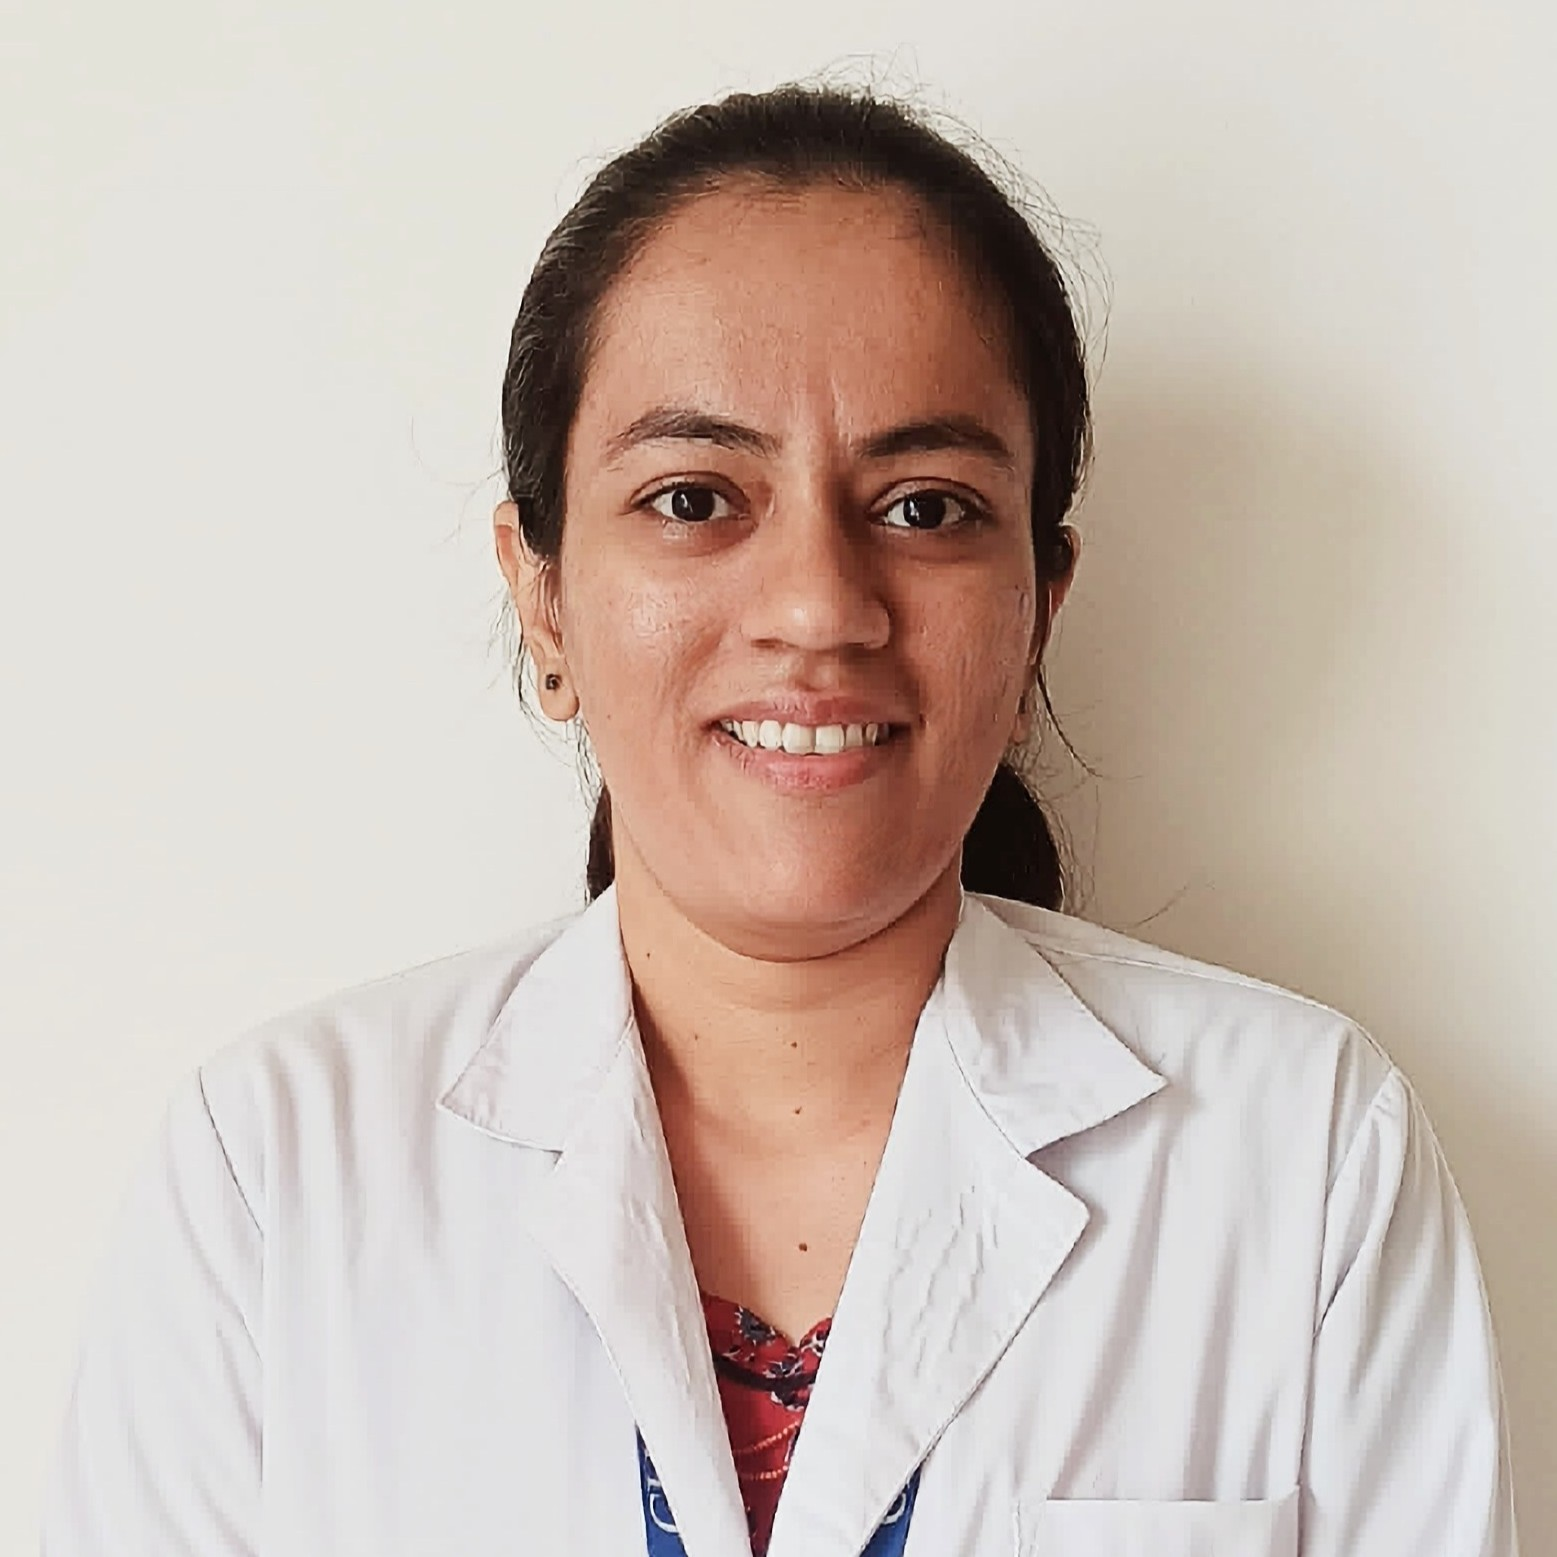
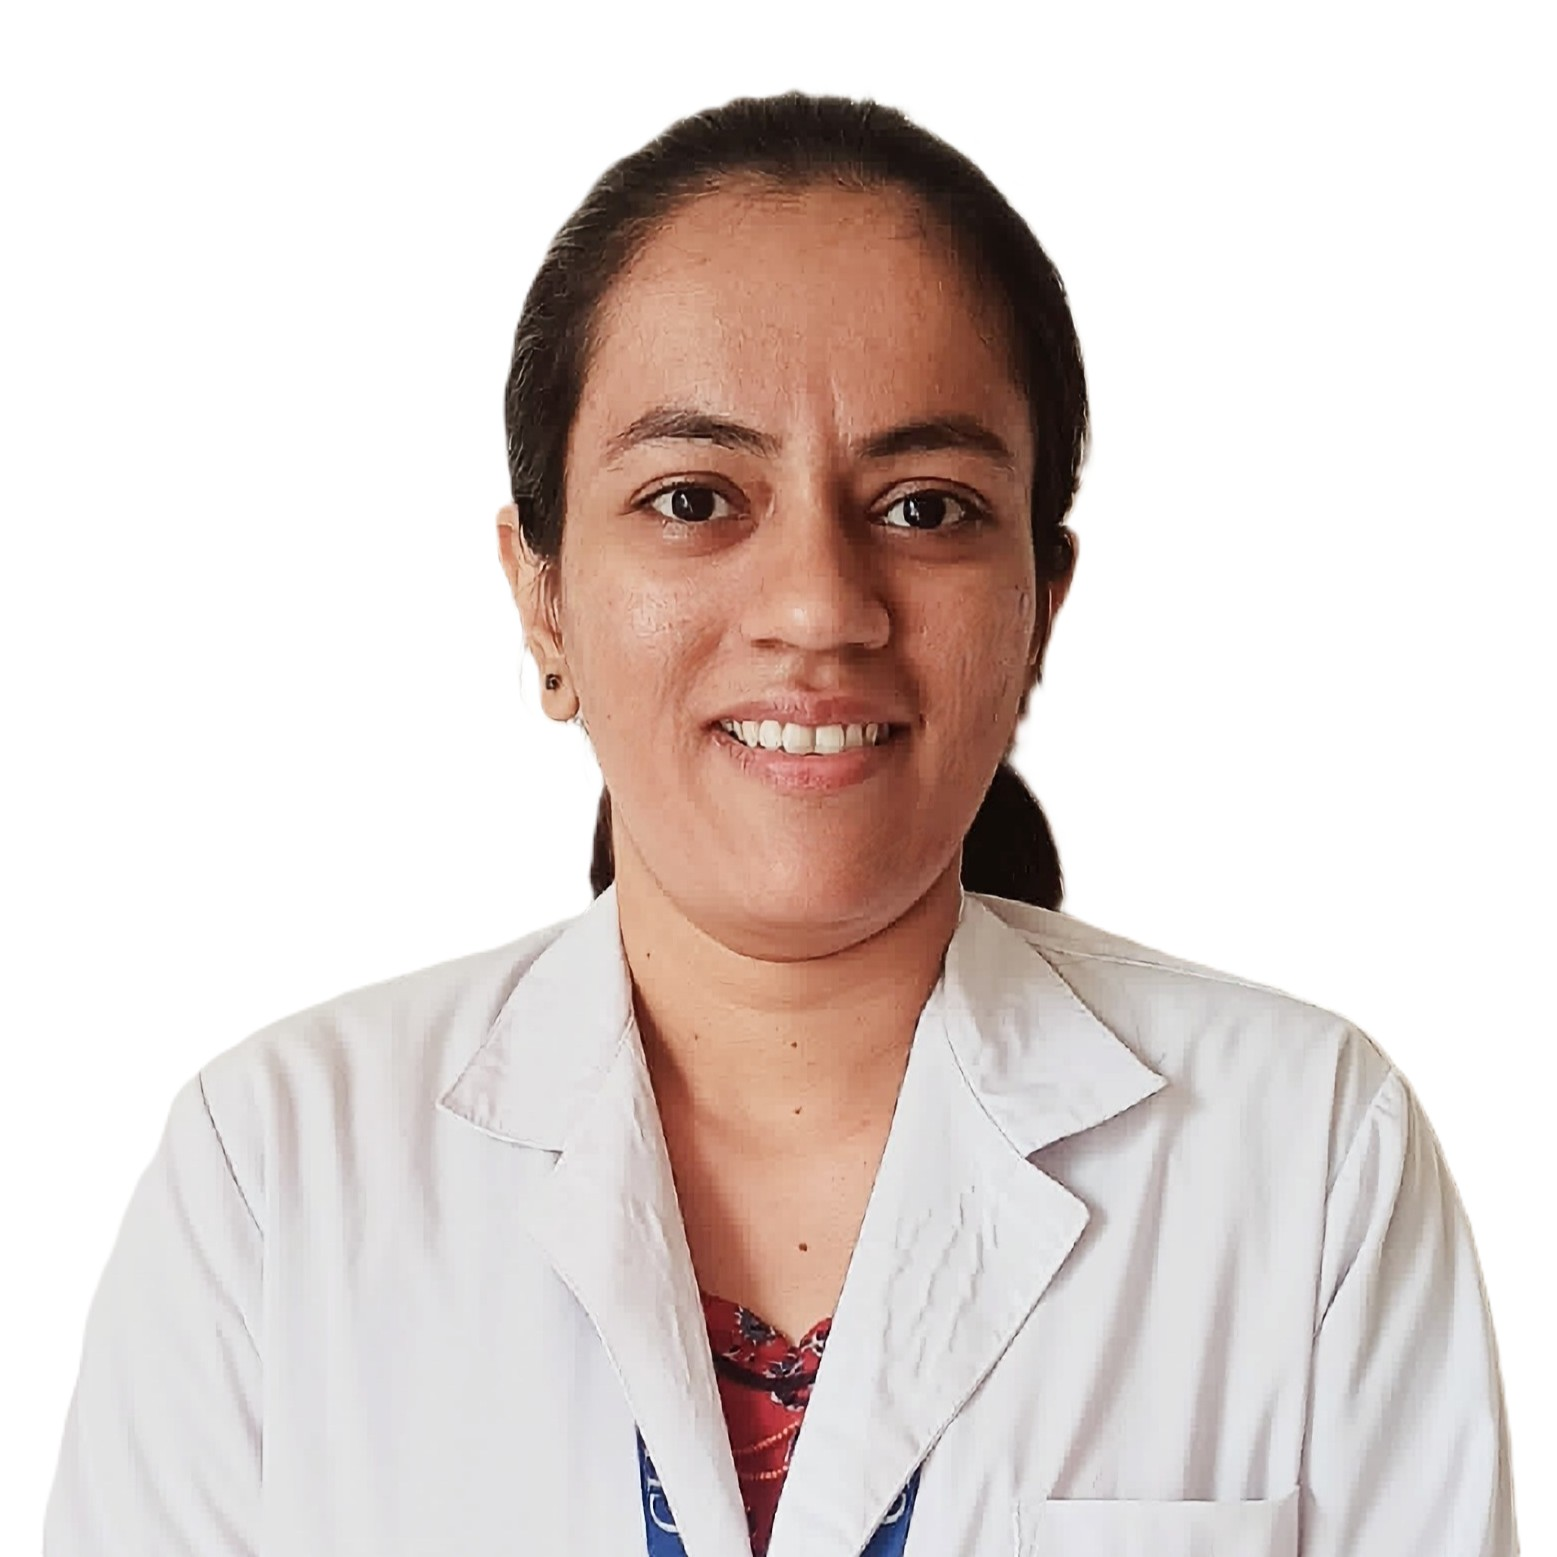
FACULTY IMAGES UPDATED

diff --git a/index.html b/index.html
@@ -1076,7 +1076,7 @@
             <div class="row" id="faculty_slider_01_id">
                <div class="col-sm-6 col-md-3 team-single-info-02 item">
                   <div class="teacher-body">
-                     <img src="images/faculty_photo/Dr Dhruv Dave.JPG" alt="" class="img-responsive">
+                     <img src="images/faculty_photo/Dr Dhruv Dave.png" alt="" class="img-responsive">
                      <div class="teachars-info">
                         <h3>Dr. Dhruv Dave</h3>
                         <span>Principal</span>
@@ -1100,7 +1100,7 @@
                </div>               
                <div class="col-sm-6 col-md-3 team-single-info-02 item ">
                   <div class="teacher-body">
-                     <img src="images/faculty_photo/Dr. Mansi Soni.JPG" alt="" class="img-responsive">
+                     <img src="images/faculty_photo/Dr. Mansi Soni.png" alt="" class="img-responsive">
                      <div class="teachars-info">
                         <h3>Dr. Mansi Soni </h3>
                         <span>Assistant Professor</span>
@@ -1124,7 +1124,7 @@
                </div>
                <div class="col-sm-6 col-md-3 team-single-info-02 item">
                   <div class="teacher-body">
-                     <img src="images/faculty_photo/Dr. Ratan.JPG" alt="" class="img-responsive">
+                     <img src="images/faculty_photo/Dr. Ratan.png" alt="" class="img-responsive">
                      <div class="teachars-info">
                         <h3>Dr. P. Ratan Khuman</h3>
                         <span>Assistant Professor</span>
@@ -1148,7 +1148,7 @@
                </div>
                <div class="col-sm-6 col-md-3 team-single-info-02">
                   <div class="teacher-body">
-                     <img src="images/faculty_photo/Dr Surbala.JPG" alt="" class="img-responsive">
+                     <img src="images/faculty_photo/Dr Surbala.png" alt="" class="img-responsive">
                      <div class="teachars-info">
                         <h3>Dr. Lourembam Surbala Devi </h3>
                         <span>Assistant Professor</span>
@@ -1196,7 +1196,7 @@
                </div>              
                <div class="col-sm-6 col-md-3 team-single-info-02">
                   <div class="teacher-body">
-                     <img src="images/faculty_photo/Dr. Heta Patel.JPG" alt="" class="img-responsive">
+                     <img src="images/faculty_photo/Dr. Heta Patel.png" alt="" class="img-responsive">
                      <div class="teachars-info">
                         <h3>Dr. Heta Patel</h3>
                         <span>Assistant Professor</span>
@@ -1220,7 +1220,7 @@
                </div>
                <div class="col-sm-6 col-md-3 team-single-info-02 item ">
                   <div class="teacher-body">
-                     <img src="images/faculty_photo/Dr. Megha.JPG" alt="" class="img-responsive">
+                     <img src="images/faculty_photo/Dr. Megha.png" alt="" class="img-responsive">
                      <div class="teachars-info">
                         <h3>Dr. Megha N. Gohil</h3>
                         <span>Assistant Professor</span>
@@ -1244,7 +1244,7 @@
                </div>               
                <div class="col-sm-6 col-md-3 team-single-info-02 item ">
                   <div class="teacher-body">
-                     <img src="images/faculty_photo/Dr. Sumam Sunny.jpg" alt="" class="img-responsive">
+                     <img src="images/faculty_photo/Dr. Sumam Sunny.png" alt="" class="img-responsive">
                      <div class="teachars-info">
                         <h3>Dr. Sumam Sunny</h3>
                         <span>Assistant Professor</span>
@@ -1285,7 +1285,7 @@
                </div>                     
                <div class="col-sm-6 col-md-3 team-single-info-02 item ">
                   <div class="teacher-body">
-                     <img src="images/faculty_photo/Dr. Shreya.JPG" alt="" class="img-responsive">
+                     <img src="images/faculty_photo/Dr. Shreya.png" alt="" class="img-responsive">
                      <div class="teachars-info">
                         <h3>Dr. Shreya Swami</h3>
                         <span>Assistant Professor</span>
@@ -1302,7 +1302,7 @@
                </div>
                <div class="col-sm-6 col-md-3 team-single-info-02 item ">
                   <div class="teacher-body">
-                     <img src="images/faculty_photo/Dr. Krishna Vaghela.JPG" alt="" class="img-responsive">
+                     <img src="images/faculty_photo/Dr. Krishna Vaghela.png" alt="" class="img-responsive">
                      <div class="teachars-info">
                         <h3>Dr.Krishna Vaghela </h3>
                         <span>Assistant Professor</span>
@@ -1319,7 +1319,7 @@
                </div>
                <div class="col-sm-6 col-md-3 team-single-info-02 item ">
                   <div class="teacher-body">
-                     <img src="images/faculty_photo/Dr. Grishma.JPG" alt="" class="img-responsive">
+                     <img src="images/faculty_photo/Dr. Grishma.png" alt="" class="img-responsive">
                      <div class="teachars-info">
                         <h3>Dr Grishma Shah</h3>
                         <span>Assistant professor</span>
@@ -1336,7 +1336,7 @@
                </div>
                 <div class="col-sm-6 col-md-3 team-single-info-02 item ">
                   <div class="teacher-body">
-                     <img src="images/faculty_photo/Dr. Dimple.JPG" alt="" class="img-responsive">
+                     <img src="images/faculty_photo/Dr. Dimple.png" alt="" class="img-responsive">
                      <div class="teachars-info">
                         <h3>Dr. Dimpal Manilal Paija</h3>
                         <span>Assistant professor</span>
@@ -1370,7 +1370,7 @@
                </div>
                <div class="col-sm-6 col-md-3 team-single-info-02 item ">
                   <div class="teacher-body">
-                     <img src="images/faculty_photo/Dr. Krishna Vyas.JPG" alt="" class="img-responsive">
+                     <img src="images/faculty_photo/Dr. Krishna Vyas.png" alt="" class="img-responsive">
                      <div class="teachars-info">
                         <h3>Dr Krishna Vyas</h3>
                         <span>Assistant professor</span>
@@ -1387,7 +1387,7 @@
                </div>
                <div class="col-sm-6 col-md-3 team-single-info-02 item ">
                   <div class="teacher-body">
-                     <img src="images/faculty_photo/Dr. Bhargav.JPG" alt="" class="img-responsive">
+                     <img src="images/faculty_photo/Dr. Bhargav.png" alt="" class="img-responsive">
                      <div class="teachars-info">
                         <h3>Dr. Bhargav Patel</h3>
                         <span>Assistant professor</span>
@@ -1404,7 +1404,7 @@
                </div>
                <div class="col-sm-6 col-md-3 team-single-info-02 item ">
                   <div class="teacher-body">
-                     <img src="images/faculty_photo/Dr. Bhumi.JPG" alt="" class="img-responsive">
+                     <img src="images/faculty_photo/Dr. Bhumi.png" alt="" class="img-responsive">
                      <div class="teachars-info">
                         <h3>Dr. Bhumi Patel</h3>
                         <span>Assistant professor</span>
@@ -1421,7 +1421,7 @@
                </div>
                <div class="col-sm-6 col-md-3 team-single-info-02 item ">
                   <div class="teacher-body">
-                     <img src="images/faculty_photo/Dr. Niki.JPG" alt="" class="img-responsive">
+                     <img src="images/faculty_photo/Dr. Niki.png" alt="" class="img-responsive">
                      <div class="teachars-info">
                         <h3>Dr. Niki Patel</h3>
                         <span>Assistant professor</span>
@@ -1438,7 +1438,7 @@
                </div>
                <div class="col-sm-6 col-md-3 team-single-info-02 item ">
                   <div class="teacher-body">
-                     <img src="images/faculty_photo/Dr. Disha.JPG" alt="" class="img-responsive">
+                     <img src="images/faculty_photo/Dr. Disha.png" alt="" class="img-responsive">
                      <div class="teachars-info">
                         <h3>Dr. Disha S. Shah</h3>
                         <span>Assistant professor</span>
@@ -1455,7 +1455,7 @@
                </div>
                 <div class="col-sm-6 col-md-3 team-single-info-02 item ">
                   <div class="teacher-body">
-                     <img src="images/faculty_photo/Dr. Shipraa Shah.jpg" alt="" class="img-responsive">
+                     <img src="images/faculty_photo/Dr. Shipraa Shah.png" alt="" class="img-responsive">
                      <div class="teachars-info">
                         <h3>Dr.Shipraa Arpan Shah</h3>
                         <span>Assistant professor, PhD Scholar</span>
@@ -1472,7 +1472,7 @@
                </div>
                 <div class="col-sm-6 col-md-3 team-single-info-02 item ">
                   <div class="teacher-body">
-                     <img src="images/faculty_photo/Dr. Mansi Bhadiyadra.JPG" alt="" class="img-responsive">
+                     <img src="images/faculty_photo/Dr. Mansi Bhadiyadra.png" alt="" class="img-responsive">
                      <div class="teachars-info">
                         <h3>Dr. Mansi Bhadiyadra</h3>
                         <span>Assistant professor</span>
@@ -1489,7 +1489,7 @@
                </div>
                <div class="col-sm-6 col-md-3 team-single-info-02 item ">
                   <div class="teacher-body">
-                     <img src="images/faculty_photo/Dr. Smruti.JPG" alt="" class="img-responsive">
+                     <img src="images/faculty_photo/Dr. Smruti.png" alt="" class="img-responsive">
                      <div class="teachars-info">
                         <h3>Dr. Smruti Rohit</h3>
                         <span>Assistant professor</span>
@@ -1506,7 +1506,7 @@
                </div>
                <div class="col-sm-6 col-md-3 team-single-info-02 item ">
                   <div class="teacher-body">
-                     <img src="images/faculty_photo/Gaurav Solanki.webp" alt="" class="img-responsive">
+                     <img src="images/faculty_photo/Gaurav Solanki.png" alt="" class="img-responsive">
                      <div class="teachars-info">
                         <h3>Dr. Gaurav L Solanki</h3>
                         <span>Clinical Physiotherapist</span>
@@ -1523,7 +1523,7 @@
                </div>
                <div class="col-sm-6 col-md-3 team-single-info-02 item ">
                   <div class="teacher-body">
-                     <img src="images/faculty_photo/Dr. Viddhi Rabari.JPG" alt="" class="img-responsive">
+                     <img src="images/faculty_photo/Dr. Viddhi Rabari.png" alt="" class="img-responsive">
                      <div class="teachars-info">
                         <h3>Dr. Vidhi S. Rabari</h3>
                         <span>Assistant Professor</span>
@@ -1579,7 +1579,7 @@
                            </div>
                            <div class="col-sm-12 single-address-box">
                               <ul class="list-unstyled">
-                                 <li><a href="https://www.facebook.com/ARIP2009?mibextid=ZbWKwL"><i class="fa fa-facebook teacher-icon"></i></a></li>
+                                 <li><a href="https://www.facebook.com/share/18iwBh7A9q/?mibextid=wwXIfr"><i class="fa fa-facebook teacher-icon"></i></a></li>
                                  <li><a href="https://x.com/ARIP_2009"><i class="fa fa-twitter teacher-icon"></i></a></li>
                                  <li><a href="https://www.linkedin.com/in/arip2009/"><i class="fa fa-linkedin teacher-icon"></i></a></li>
                                  <li><a href="https://www.instagram.com/arip2009_charusat?igsh=MTV2anI2YWI0N2RsMg=="><i class="fa fa-instagram teacher-icon"></i></a></li>
